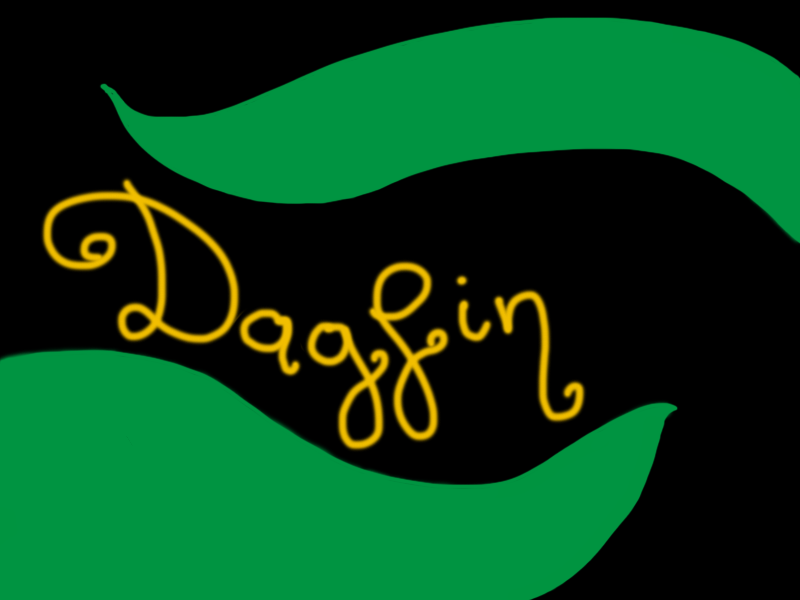
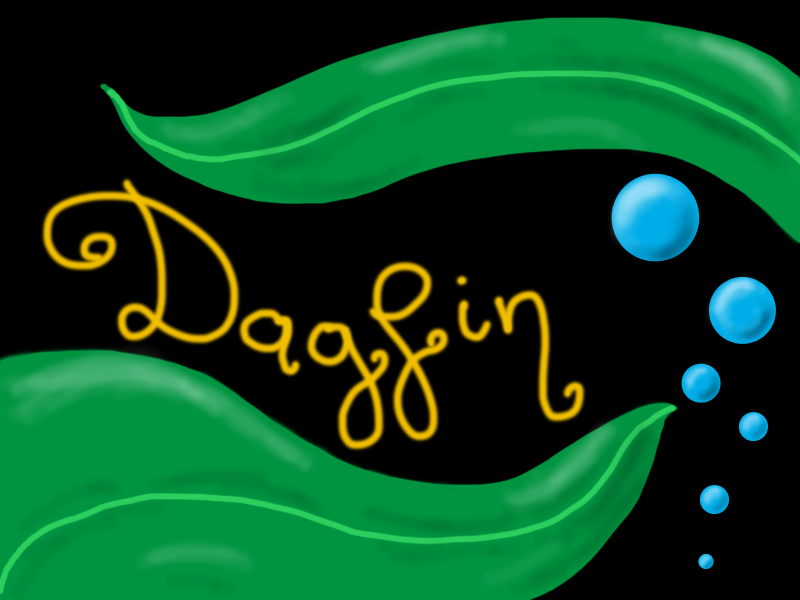
Preload couverture.png before Phaser init.

diff --git a/index.html b/index.html
@@ -8,37 +8,39 @@
         var lang = navigator.language.substring(0,2);
         if (lang !== 'en' && lang !== 'fr') lang = 'en';
         </script>
-        <script src="js/phaser.min.js"></script>
-        <script src="js/main.js"></script>
 	<style>
 	* {margin:0 auto;padding:0;border:0;font-family:sans-serif;text-align:center; text-decoration: none;}
 	a:hover{text-decoration: underline;}
 	dt {display: inline-block; width:40%;text-align:right;margin-right:20px;}
 	dd {display: inline-block; width:40%;text-align:left;}
+    #game {background: url(assets/couverture.png) center no-repeat;width: 800px; height: 600px;} /* to preload image before phaser launch */
 	</style>
     </head>
     
     <body>
-	<h1>Dagfin</h1>
-	<div id="game"></div>
-	<p>A small horror game made for <a href="http://www.ludumdare.com/compo/2014/04/23/welcome-to-ludum-dare-29er/">Ludum Dare 29</a> <a href="https://twitter.com/search?q=%23LD48&src=hash">#LD48</a></p>
-	<a href="https://github.com/GammaNu/dagfin">AGPL source code aviable on GitHub.</a>
-	<br/>
-	<br/>
-	<h2>Controls</h2>
-	<dl>
-		<dt>Arrow Keys</dt><dd>Move</dd>
-		<dt>Space</dt><dd>Defensive Action</dd>
-		<dt>Enter</dt><dd>Use/Read</dd>
-		<!--<dt>m</dt><dd>Mute/deMute music</dd>
-		<dt>M</dt><dd>Mute/deMute All</dd>-->
-		<dt>f</dt><dd>FullScreen</dd>
-	</dl>
-	<h2>Language</h2>
-	<ul>
-		<li><a href="index-en.html">Full english version</a></li>
-		<li><a href="index-fr.html">Version française intégralle</a></li>
-	</ul>
-	<p>You are using the auto-detected language version.</p>
+        <h1>Dagfin</h1>
+        <div id="game"></div>
+        <p>A small horror game made for <a href="http://www.ludumdare.com/compo/2014/04/23/welcome-to-ludum-dare-29er/">Ludum Dare 29</a> <a href="https://twitter.com/search?q=%23LD48&src=hash">#LD48</a></p>
+        <a href="https://github.com/GammaNu/dagfin">AGPL source code aviable on GitHub.</a>
+        <br/>
+        <br/>
+        <h2>Controls</h2>
+        <dl>
+            <dt>Arrow Keys</dt><dd>Move</dd>
+            <dt>Space</dt><dd>Defensive Action</dd>
+            <dt>Enter</dt><dd>Use/Read</dd>
+            <!--<dt>m</dt><dd>Mute/deMute music</dd>
+            <dt>M</dt><dd>Mute/deMute All</dd>-->
+            <dt>f</dt><dd>FullScreen</dd>
+        </dl>
+        <h2>Language</h2>
+        <ul>
+            <li><a href="index-en.html">Full english version</a></li>
+            <li><a href="index-fr.html">Version française intégralle</a></li>
+        </ul>
+        <p>You are using the auto-detected language version.</p>
+
+        <script src="js/phaser.min.js"></script>
+        <script src="js/main.js"></script>
     </body>
 </html>

diff --git a/index-fr.html b/index-fr.html
@@ -7,31 +7,32 @@
         <script type="text/javascript">
         var lang = "fr";
         </script>
-        <script src="js/phaser.min.js"></script>
-        <script src="js/main.js"></script>
 	<style>
 	* {margin:0 auto;padding:0;border:0;font-family:sans-serif;text-align:center; text-decoration: none;}
 	a:hover{text-decoration: underline;}
 	dt {display: inline-block; width:40%;text-align:right;margin-right:20px;}
 	dd {display: inline-block; width:40%;text-align:left;}
+    #game {background: url(assets/couverture.png) center no-repeat;width: 800px; height: 600px;} /* to preload image before phaser launch */
 	</style>
     </head>
     
     <body>
-	<h1>Dagfin</h1>
-	<div id="game"></div>
-	<p>Un petit jeu d'ambiance horreur réalisé pour le <a href="http://www.ludumdare.com/compo/2014/04/23/welcome-to-ludum-dare-29er/">Ludum Dare 29</a> <a href="https://twitter.com/search?q=%23LD48&src=hash">#LD48</a></p>
-	<a href="https://github.com/GammaNu/dagfin">Code source disponnible sur GitHub en licence AGPL.</a>
-	<br/>
-	<br/>
-	<h2>Touches utilisées</h2>
-	<dl>
-		<dt>Touches fléchées</dt><dd>Déplacement</dd>
-		<dt>Espace</dt><dd>Action défensive</dd>
-		<dt>Entrée</dt><dd>Utiliser/prendre/lire</dd>
-		<!--<dt>m</dt><dd>Mute/deMute music</dd>
-		<dt>M</dt><dd>Mute/deMute All</dd>-->
-		<dt>f</dt><dd>Basculer en plein écran</dd>
-	</dl>
+        <h1>Dagfin</h1>
+        <div id="game"></div>
+        <p>Un petit jeu d'ambiance horreur réalisé pour le <a href="http://www.ludumdare.com/compo/2014/04/23/welcome-to-ludum-dare-29er/">Ludum Dare 29</a> <a href="https://twitter.com/search?q=%23LD48&src=hash">#LD48</a></p>
+        <a href="https://github.com/GammaNu/dagfin">Code source disponnible sur GitHub en licence AGPL.</a>
+        <br/>
+        <br/>
+        <h2>Touches utilisées</h2>
+        <dl>
+            <dt>Touches fléchées</dt><dd>Déplacement</dd>
+            <dt>Espace</dt><dd>Action défensive</dd>
+            <dt>Entrée</dt><dd>Utiliser/prendre/lire</dd>
+            <!--<dt>m</dt><dd>Mute/deMute music</dd>
+            <dt>M</dt><dd>Mute/deMute All</dd>-->
+            <dt>f</dt><dd>Basculer en plein écran</dd>
+        </dl>
+        <script src="js/phaser.min.js"></script>
+        <script src="js/main.js"></script>
     </body>
 </html>

diff --git a/index-en.html b/index-en.html
@@ -7,31 +7,33 @@
         <script type="text/javascript">
         var lang = "en";
         </script>
-        <script src="js/phaser.min.js"></script>
-        <script src="js/main.js"></script>
 	<style>
 	* {margin:0 auto;padding:0;border:0;font-family:sans-serif;text-align:center; text-decoration: none;}
 	a:hover{text-decoration: underline;}
 	dt {display: inline-block; width:40%;text-align:right;margin-right:20px;}
 	dd {display: inline-block; width:40%;text-align:left;}
+    #game {background: url(assets/couverture.png) center no-repeat;width: 800px; height: 600px;} /* to preload image before phaser launch */
 	</style>
     </head>
     
     <body>
-	<h1>Dagfin</h1>
-	<div id="game"></div>
-	<p>A small horror game made for <a href="http://www.ludumdare.com/compo/2014/04/23/welcome-to-ludum-dare-29er/">Ludum Dare 29</a> <a href="https://twitter.com/search?q=%23LD48&src=hash">#LD48</a></p>
-	<a href="https://github.com/GammaNu/dagfin">AGPL source code aviable on GitHub.</a>
-	<br/>
-	<br/>
-	<h2>Controls</h2>
-	<dl>
-		<dt>Arrow Keys</dt><dd>Move</dd>
-		<dt>Space</dt><dd>Defensive Action</dd>
-		<dt>Enter</dt><dd>Use/Read</dd>
-		<!--<dt>m</dt><dd>Mute/deMute music</dd>
-		<dt>M</dt><dd>Mute/deMute All</dd>-->
-		<dt>f</dt><dd>FullScreen</dd>
-	</dl>
+        <h1>Dagfin</h1>
+        <div id="game"></div>
+        <p>A small horror game made for <a href="http://www.ludumdare.com/compo/2014/04/23/welcome-to-ludum-dare-29er/">Ludum Dare 29</a> <a href="https://twitter.com/search?q=%23LD48&src=hash">#LD48</a></p>
+        <a href="https://github.com/GammaNu/dagfin">AGPL source code aviable on GitHub.</a>
+        <br/>
+        <br/>
+        <h2>Controls</h2>
+        <dl>
+            <dt>Arrow Keys</dt><dd>Move</dd>
+            <dt>Space</dt><dd>Defensive Action</dd>
+            <dt>Enter</dt><dd>Use/Read</dd>
+            <!--<dt>m</dt><dd>Mute/deMute music</dd>
+            <dt>M</dt><dd>Mute/deMute All</dd>-->
+            <dt>f</dt><dd>FullScreen</dd>
+        </dl>
+
+        <script src="js/phaser.min.js"></script>
+        <script src="js/main.js"></script>
     </body>
 </html>

diff --git a/js/main.js b/js/main.js
@@ -180,7 +180,7 @@ BootState.prototype.preload = function() {
 
 	this.dagfin.initState();
 
-	this.game.load.image('splash', 'assets/couverturev2.png');
+	this.game.load.image('splash', 'assets/couverture.png');
 	this.game.load.image('progressBarBg', 'assets/progress_bar_bg.png');
 	this.game.load.image('progressBar', 'assets/progress_bar.png');
 
